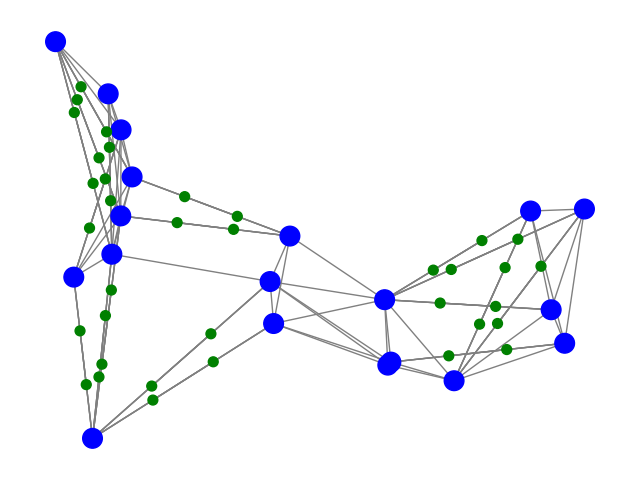
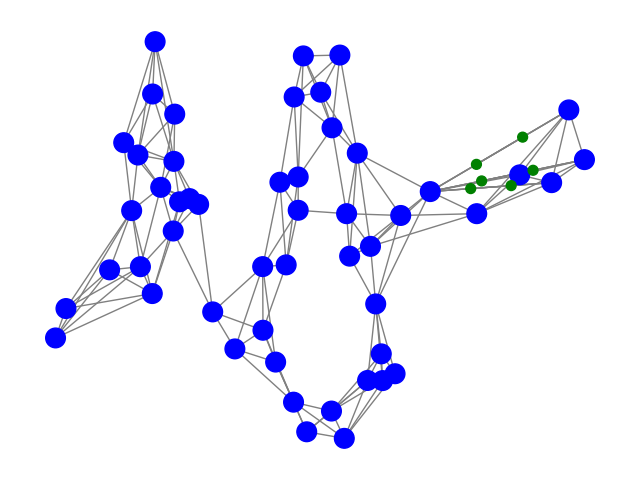
update

Changed region(s): [[0.0625, 0.0625, 0.9375, 0.9375], [0.2188, 0.75, 0.3125, 0.8438], [0.1875, 0.8438, 0.2188, 0.875]]

diff --git a/src/solver/flow.py b/src/solver/flow.py
@@ -416,14 +416,14 @@ if __name__ == "__main__":
     net.segment_edges(150, 150, 2)
     net.plot(None, None, './result/test/fig_segment.png')
 
-    k = len(net.G.nodes) - len(vset.vertices)
-    k = int(np.sqrt(k))
-    net.cluster_inter_nodes(15, 2)
-    net.plot(None, None, './result/test/fig_cluster.png')
+    # k = len(net.G.nodes) - len(vset.vertices)
+    # k = int(np.sqrt(k))
+    # net.cluster_inter_nodes(10, 2)
+    # net.plot(None, None, './result/test/fig_cluster.png')
 
-    net.connect_nearest_nodes(10, 3)
-    net.connect_nearest_component(3)
-    net.plot(None, None, './result/test/fig_cmp2.png')
+    # net.connect_nearest_nodes(5, 3)
+    # net.connect_nearest_component(3)
+    # net.plot(None, None, './result/test/fig_cmp2.png')
 
     print(len(net.G.nodes), len(net.G.edges))
 

diff --git a/src/network/network.py b/src/network/network.py
@@ -48,7 +48,7 @@ class Topology:
             pos = self.U[node]
             self.G.add_node(node_id, pos=pos, group=0)
 
-        self.pairs = []
+        self.pairs = self.update_pairs()
 
     def connect_nearest_nodes(self, num: int=5, group: int=0):
         """
@@ -203,12 +203,14 @@ class Topology:
         """
         get all pairs of nodes in the network
         """
-        self.pairs = []
+        pairs = []
         nodes = list(self.G.nodes(data=False))
         for i in range(len(nodes)):
             for j in range(i + 1, len(nodes)):
-                self.pairs.append((nodes[i], nodes[j]))
-        return self.pairs
+                pairs.append((nodes[i], nodes[j]))
+                
+        self.pairs = pairs
+        return pairs
 
     def update_edges(self):
         """

diff --git a/src/solver/path.py b/src/solver/path.py
@@ -318,7 +318,7 @@ class PathSolverMinResource(PathSolverNonCost):
 if __name__ == "__main__":
     random.seed(0)
     np.random.seed(0)
-    vsrc = VertexSource.NOEL
+    vsrc = VertexSource.IRIS
     vset = VertexSet(vsrc)
     task = Task(vset, 0.2, (100, 101))
     net = Topology(task=task)
